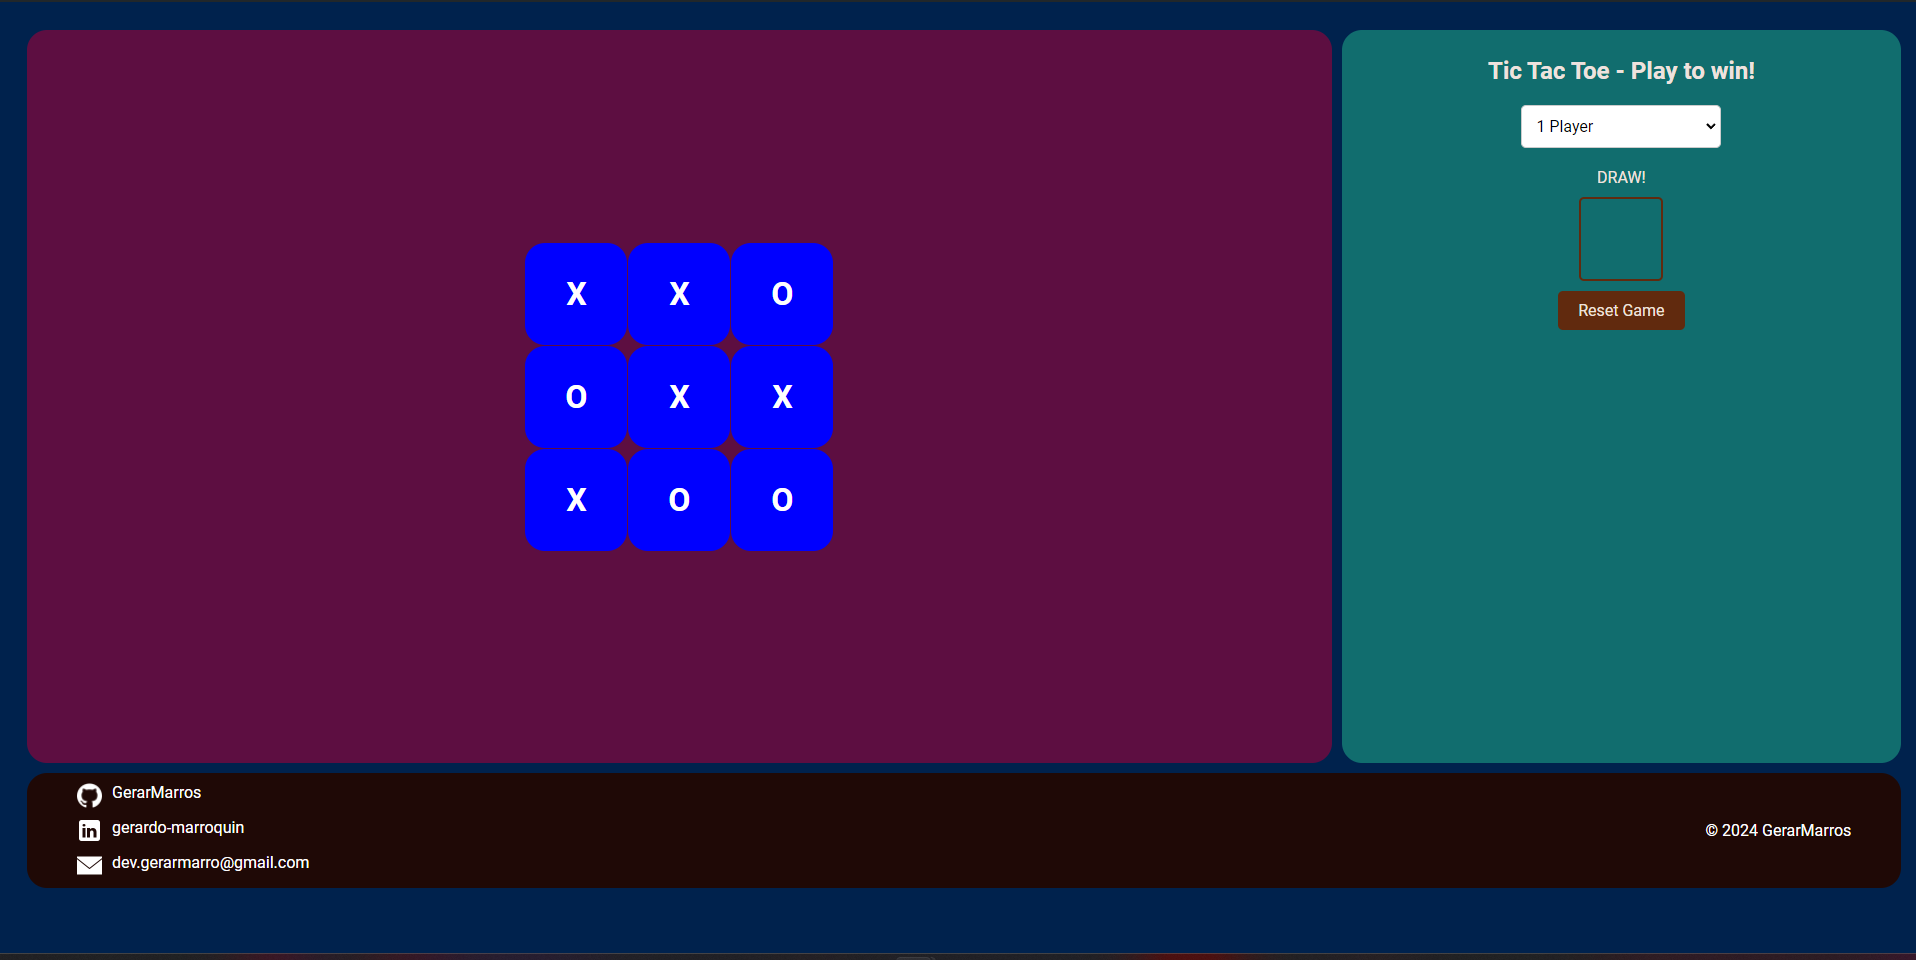
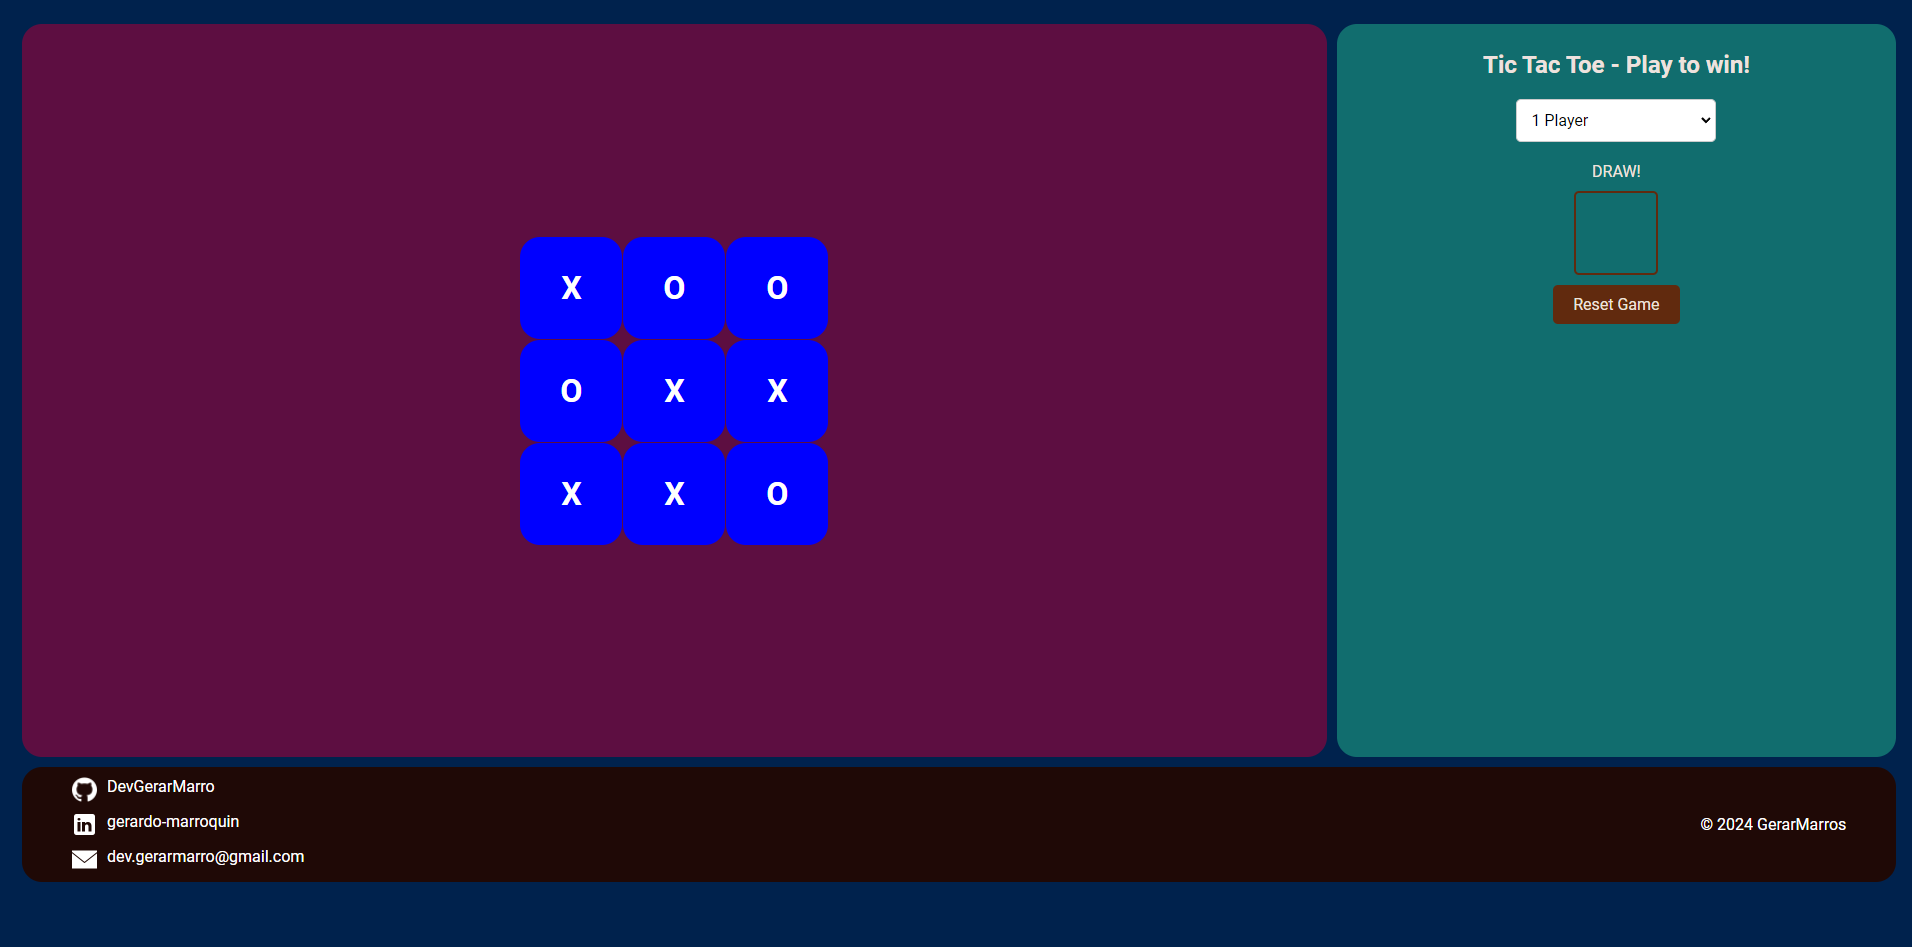
chore: change github user and new screenshots

diff --git a/index.html b/index.html
@@ -62,7 +62,7 @@
 				<ul>
 					<li>
 						<img src="./assets/images/github.png" alt="github" width="25" />
-						<a href="https://github.com/DevGerarMarro/tic-tac-toe.git" target="_blank">GerarMarros</a>
+						<a href="https://github.com/DevGerarMarro/tic-tac-toe.git" target="_blank">DevGerarMarro</a>
 					</li>
 					<li>
 						<img src="./assets/images/linkedin.png" alt="linkedin" width="25" />
@@ -76,7 +76,7 @@
 			</div>
 			
 			<div id="copyright">
-				<p id="copyright-text">© 2022 - GerarMarros</p>
+				<p id="copyright-text">© 2022 - DevGerarMarro</p>
 			</div>
 		</div>
 	</main>

diff --git a/README.md b/README.md
@@ -8,8 +8,6 @@ This project implements the classic Tic-Tac-Toe game using HTML, CSS, and JavaSc
 
 ## Features (Características)
 
-![](./public/images/interfaz.png)
-
 **Interactive User Interface**:
 
 1. **Board**: A 3x3 grid board where players can click on cells to make their moves.
@@ -46,6 +44,8 @@ git clone https://github.com/DevGerarMarro/tic-tac-toe.git
 
 # Screenshots (Capturas de pantalla)
 
-![](./public/images/winner.png)
+![](./public/images/interfaz.png)
 
 ![](./public/images/draw.png)
+
+![](./public/images/winner.png)
